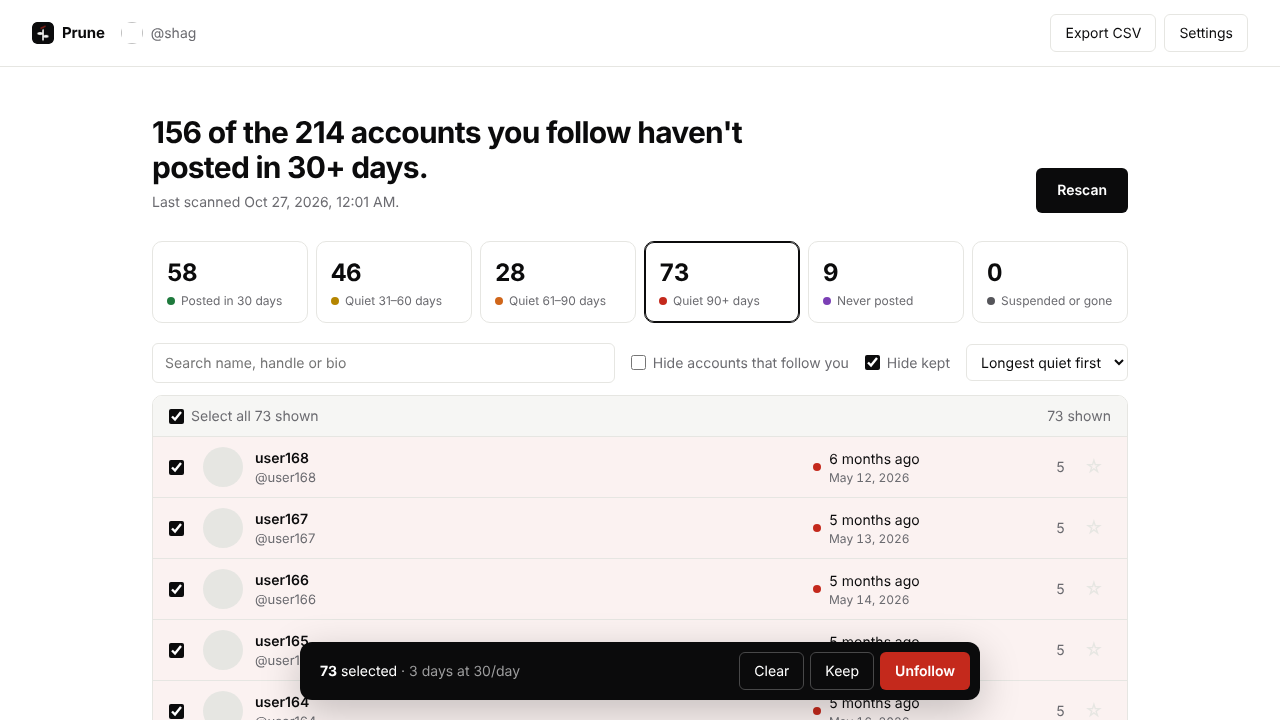
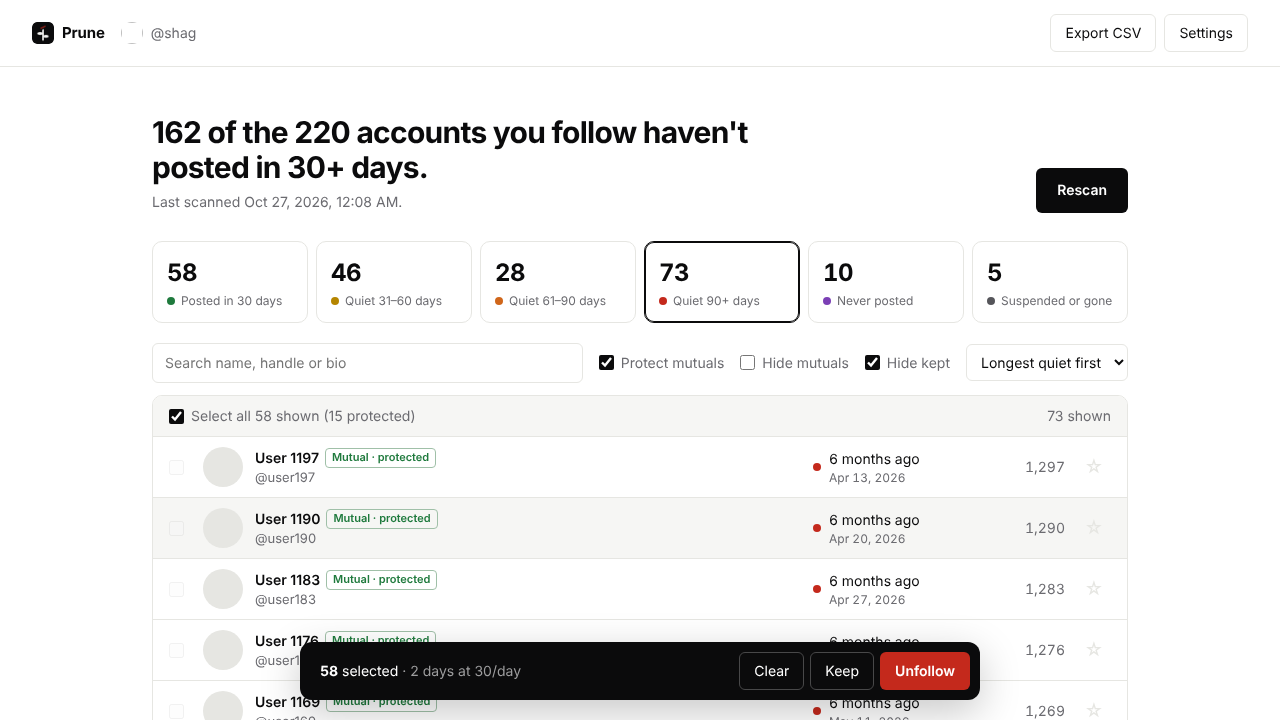
Protect mutuals by default
Claude-Session: https://claude.ai/code/session_01D4URqNKk6QcDp28189NgwK

diff --git a/src/dashboard.js b/src/dashboard.js
@@ -27,6 +27,7 @@ async function init() {
   S.accounts = await store.accounts();
   S.meta = await store.meta();
   bind();
+  $('protectMutuals').checked = S.settings.protectMutuals;
   render();
   // Keep in sync if another Prune tab changes data.
   chrome.storage.onChanged.addListener(async (changes) => {
@@ -48,8 +49,14 @@ function bind() {
   $('stopBtn').onclick = () => { if (S.client) S.client.cancelled = true; };
   $('search').oninput = () => { S.shown = PAGE; renderRows(); };
   for (const id of ['hideMutuals', 'hideKept', 'sort']) $(id).onchange = () => { S.shown = PAGE; renderRows(); };
+  $('protectMutuals').onchange = async (e) => {
+    S.settings = { ...S.settings, protectMutuals: e.target.checked };
+    await store.saveSettings(S.settings);
+    if (S.settings.protectMutuals) for (const id of [...S.selected]) if (S.accounts[id]?.followsYou) S.selected.delete(id);
+    renderRows();
+  };
   $('selectAll').onchange = (e) => {
-    const list = visible();
+    const list = visible().filter(selectable);
     if (e.target.checked) list.forEach((r) => S.selected.add(r.id));
     else list.forEach((r) => S.selected.delete(r.id));
     renderRows();
@@ -83,6 +90,10 @@ function bind() {
 // ---------- rendering ----------
 
 function list() { return Object.values(S.accounts); }
+
+/** Kept accounts, and mutuals while "Protect mutuals" is on, can never be queued. */
+function isProtected(r) { return Boolean(r.keep || (S.settings.protectMutuals && r.followsYou)); }
+function selectable(r) { return !isProtected(r); }
 
 function counts() {
   const c = Object.fromEntries(BUCKETS.map((b) => [b.key, 0]));
@@ -199,14 +210,15 @@ function renderRows() {
   const frag = document.createDocumentFragment();
   for (const r of slice) {
     const li = document.createElement('li');
-    li.className = 'row' + (S.selected.has(r.id) ? ' sel' : '');
+    const locked = isProtected(r);
+    li.className = 'row' + (S.selected.has(r.id) ? ' sel' : '') + (locked ? ' locked' : '');
     li.dataset.id = r.id;
     const tags = [
-      r.followsYou ? '<span class="tag">Follows you</span>' : '',
+      r.followsYou ? `<span class="tag${S.settings.protectMutuals ? ' shield' : ''}">${S.settings.protectMutuals ? 'Mutual · protected' : 'Follows you'}</span>` : '',
       r.protected ? '<span class="tag">Private</span>' : '',
     ].join('');
     li.innerHTML = `
-      <input type="checkbox" data-act="sel" ${S.selected.has(r.id) ? 'checked' : ''} aria-label="Select @${esc(r.handle)}" />
+      <input type="checkbox" data-act="sel" ${S.selected.has(r.id) ? 'checked' : ''} ${locked ? 'disabled' : ''} aria-label="Select @${esc(r.handle)}" />
       ${r.avatar ? `<img class="avatar" loading="lazy" src="${esc(r.avatar)}" alt="" referrerpolicy="no-referrer" />` : '<span class="avatar"></span>'}
       <div class="who">
         <div class="name"><a href="https://x.com/${encodeURIComponent(r.handle)}" target="_blank" rel="noopener">${esc(r.name)}</a>${tags}</div>
@@ -221,15 +233,17 @@ function renderRows() {
   ol.replaceChildren(frag);
   $('moreBtn').hidden = rows.length <= S.shown;
   $('shownCount').textContent = `${rows.length.toLocaleString()} shown`;
-  const allSel = rows.length > 0 && rows.every((r) => S.selected.has(r.id));
-  $('selectAll').checked = allSel;
-  $('selectAllLabel').textContent = `Select all ${rows.length.toLocaleString()} shown`;
+  const pickable = rows.filter(selectable);
+  $('selectAll').checked = pickable.length > 0 && pickable.every((r) => S.selected.has(r.id));
+  $('selectAll').disabled = pickable.length === 0;
+  const skipped = rows.length - pickable.length;
+  $('selectAllLabel').textContent = `Select all ${pickable.length.toLocaleString()} shown${skipped ? ` (${skipped.toLocaleString()} protected)` : ''}`;
   renderActionbar();
 }
 
 function renderActionbar() {
   // Drop selections that no longer exist (unfollowed, filtered by rescan).
-  for (const id of S.selected) if (!S.accounts[id]) S.selected.delete(id);
+  for (const id of S.selected) if (!S.accounts[id] || isProtected(S.accounts[id])) S.selected.delete(id);
   const n = S.selected.size;
   $('actionbar').hidden = n === 0 || S.job === 'unfollow';
   $('selCount').textContent = n.toLocaleString();
@@ -265,6 +279,7 @@ async function onRowClick(e) {
   } else if (!e.target.closest('a')) {
     // click anywhere on the row toggles selection
     const cb = li.querySelector('input[data-act=sel]');
+    if (cb.disabled) return;
     cb.checked = !cb.checked;
     cb.checked ? S.selected.add(id) : S.selected.delete(id);
     li.classList.toggle('sel', cb.checked);
@@ -349,7 +364,7 @@ async function startScan() {
 }
 
 async function confirmUnfollow() {
-  const recs = [...S.selected].map((id) => S.accounts[id]).filter((r) => r && !r.keep);
+  const recs = [...S.selected].map((id) => S.accounts[id]).filter((r) => r && selectable(r));
   if (!recs.length) return;
   const history = await store.log();
   const left = Math.max(0, S.settings.dailyCap - unfollowsInLastDay(history));
@@ -358,7 +373,7 @@ async function confirmUnfollow() {
   $('confirmTitle').textContent = `Unfollow ${recs.length.toLocaleString()} account${recs.length === 1 ? '' : 's'}?`;
   $('confirmBody').textContent =
     `${today.toLocaleString()} will go now (${eta(today)}), ${left < recs.length ? `the rest after your ${S.settings.dailyCap}/day cap resets. Run the queue again tomorrow for those. ` : ''}` +
-    `${mutuals ? `${mutuals} of them follow you. ` : ''}Keep this tab open while it runs. This can't be undone in bulk.`;
+    `${mutuals ? `${mutuals} of them follow you back. ` : S.settings.protectMutuals ? 'Mutuals are protected and skipped. ' : ''}Keep this tab open while it runs. This can't be undone in bulk.`;
   const ul = $('confirmList');
   ul.innerHTML = recs.slice(0, 60).map((r) => `<li>@${esc(r.handle)}</li>`).join('') + (recs.length > 60 ? `<li>+${recs.length - 60} more</li>` : '');
   $('confirmOk').disabled = left === 0;
@@ -433,10 +448,11 @@ function openSettings() {
       next[k] = el.type === 'checkbox' ? el.checked : el.type === 'number' ? Number(el.value) : el.value;
     }
     if (next.maxDelaySec < next.minDelaySec) next.maxDelaySec = next.minDelaySec;
+    $('protectMutuals').checked = next.protectMutuals;
     if (next.countReposts !== S.settings.countReposts) log('Repost setting changed. Rescan to re-sort accounts.', 'warn');
     S.settings = next;
     await store.saveSettings(next);
-    renderActionbar();
+    renderRows();
   }, { once: true });
 }
 

diff --git a/src/dashboard.html b/src/dashboard.html
@@ -51,7 +51,8 @@
 
     <section class="toolbar" id="toolbar" hidden>
       <input type="search" id="search" placeholder="Search name, handle or bio" autocomplete="off" />
-      <label class="check"><input type="checkbox" id="hideMutuals" /> Hide accounts that follow you</label>
+      <label class="check" title="Accounts that follow you back can't be selected or unfollowed"><input type="checkbox" id="protectMutuals" /> Protect mutuals</label>
+      <label class="check"><input type="checkbox" id="hideMutuals" /> Hide mutuals</label>
       <label class="check"><input type="checkbox" id="hideKept" checked /> Hide kept</label>
       <select id="sort">
         <option value="oldest">Longest quiet first</option>
@@ -120,6 +121,7 @@
         <label><span>Max gap (sec)</span><input type="number" name="maxDelaySec" min="1" max="300" /></label>
       </div>
       <label class="check field"><input type="checkbox" name="countReposts" /> Count reposts as activity</label>
+      <label class="check field"><input type="checkbox" name="protectMutuals" /> Only unfollow accounts that don't follow me back</label>
       <label class="field">
         <span>Reuse activity data newer than (days)</span>
         <input type="number" name="recheckDays" min="0" max="60" />

diff --git a/src/dashboard.css b/src/dashboard.css
@@ -132,6 +132,9 @@ select { padding: 8px 10px; border-radius: var(--r-sm); border: 1px solid var(--
 .row:last-child { border-bottom: 0; }
 .row:hover { background: var(--panel); }
 .row.sel { background: color-mix(in srgb, var(--danger) 6%, var(--bg)); }
+.row.locked input { opacity: .3; cursor: not-allowed; }
+.row.locked { cursor: default; }
+.tag.shield { color: var(--ok); border-color: color-mix(in srgb, var(--ok) 35%, var(--line)); }
 .row input { accent-color: var(--text); width: 15px; height: 15px; margin: 0; }
 .avatar { width: 40px; height: 40px; border-radius: 50%; background: var(--line); object-fit: cover; }
 .who { min-width: 0; }

diff --git a/src/lib/unfollow.js b/src/lib/unfollow.js
@@ -15,6 +15,11 @@ export async function runUnfollow(client, store, queue, { settings, onProgress, 
 
   for (const rec of queue) {
     client.checkpoint();
+    // Belt and braces: the dashboard already filters these out.
+    if (rec.keep || (settings.protectMutuals && rec.followsYou)) {
+      log(`Skipped @${rec.handle} (${rec.keep ? 'kept' : 'follows you back'}).`);
+      continue;
+    }
     await client.waitWhilePaused();
 
     const history = await store.log();

diff --git a/src/lib/store.js b/src/lib/store.js
@@ -2,6 +2,7 @@
 
 export const DEFAULT_SETTINGS = {
   countReposts: true,      // a repost counts as activity
+  protectMutuals: true,    // never unfollow accounts that follow you back
   dailyCap: 350,           // max unfollows per rolling 24h
   minDelaySec: 6,          // random delay between unfollows
   maxDelaySec: 14,

diff --git a/README.md b/README.md
@@ -10,7 +10,8 @@ Prune is a browser extension that runs entirely on your machine. It talks to x.c
 
 - Loads everyone you follow and the date of each account's latest post
 - Groups them: posted in the last 30 days, quiet 31–60, quiet 61–90, quiet 90+, never posted, suspended or gone
-- Lets you filter, search, hide mutuals, and star accounts to keep forever
+- Protects mutuals by default: accounts that follow you back can't be selected or unfollowed (toggle off in the toolbar or Settings)
+- Lets you filter, search, and star accounts to keep forever
 - Unfollows the selection slowly: random 6–14 second gaps, quietest accounts first, and a rolling 24-hour cap (350 by default)
 - Stops immediately if X reports a lock or limit
 - Exports to CSV
